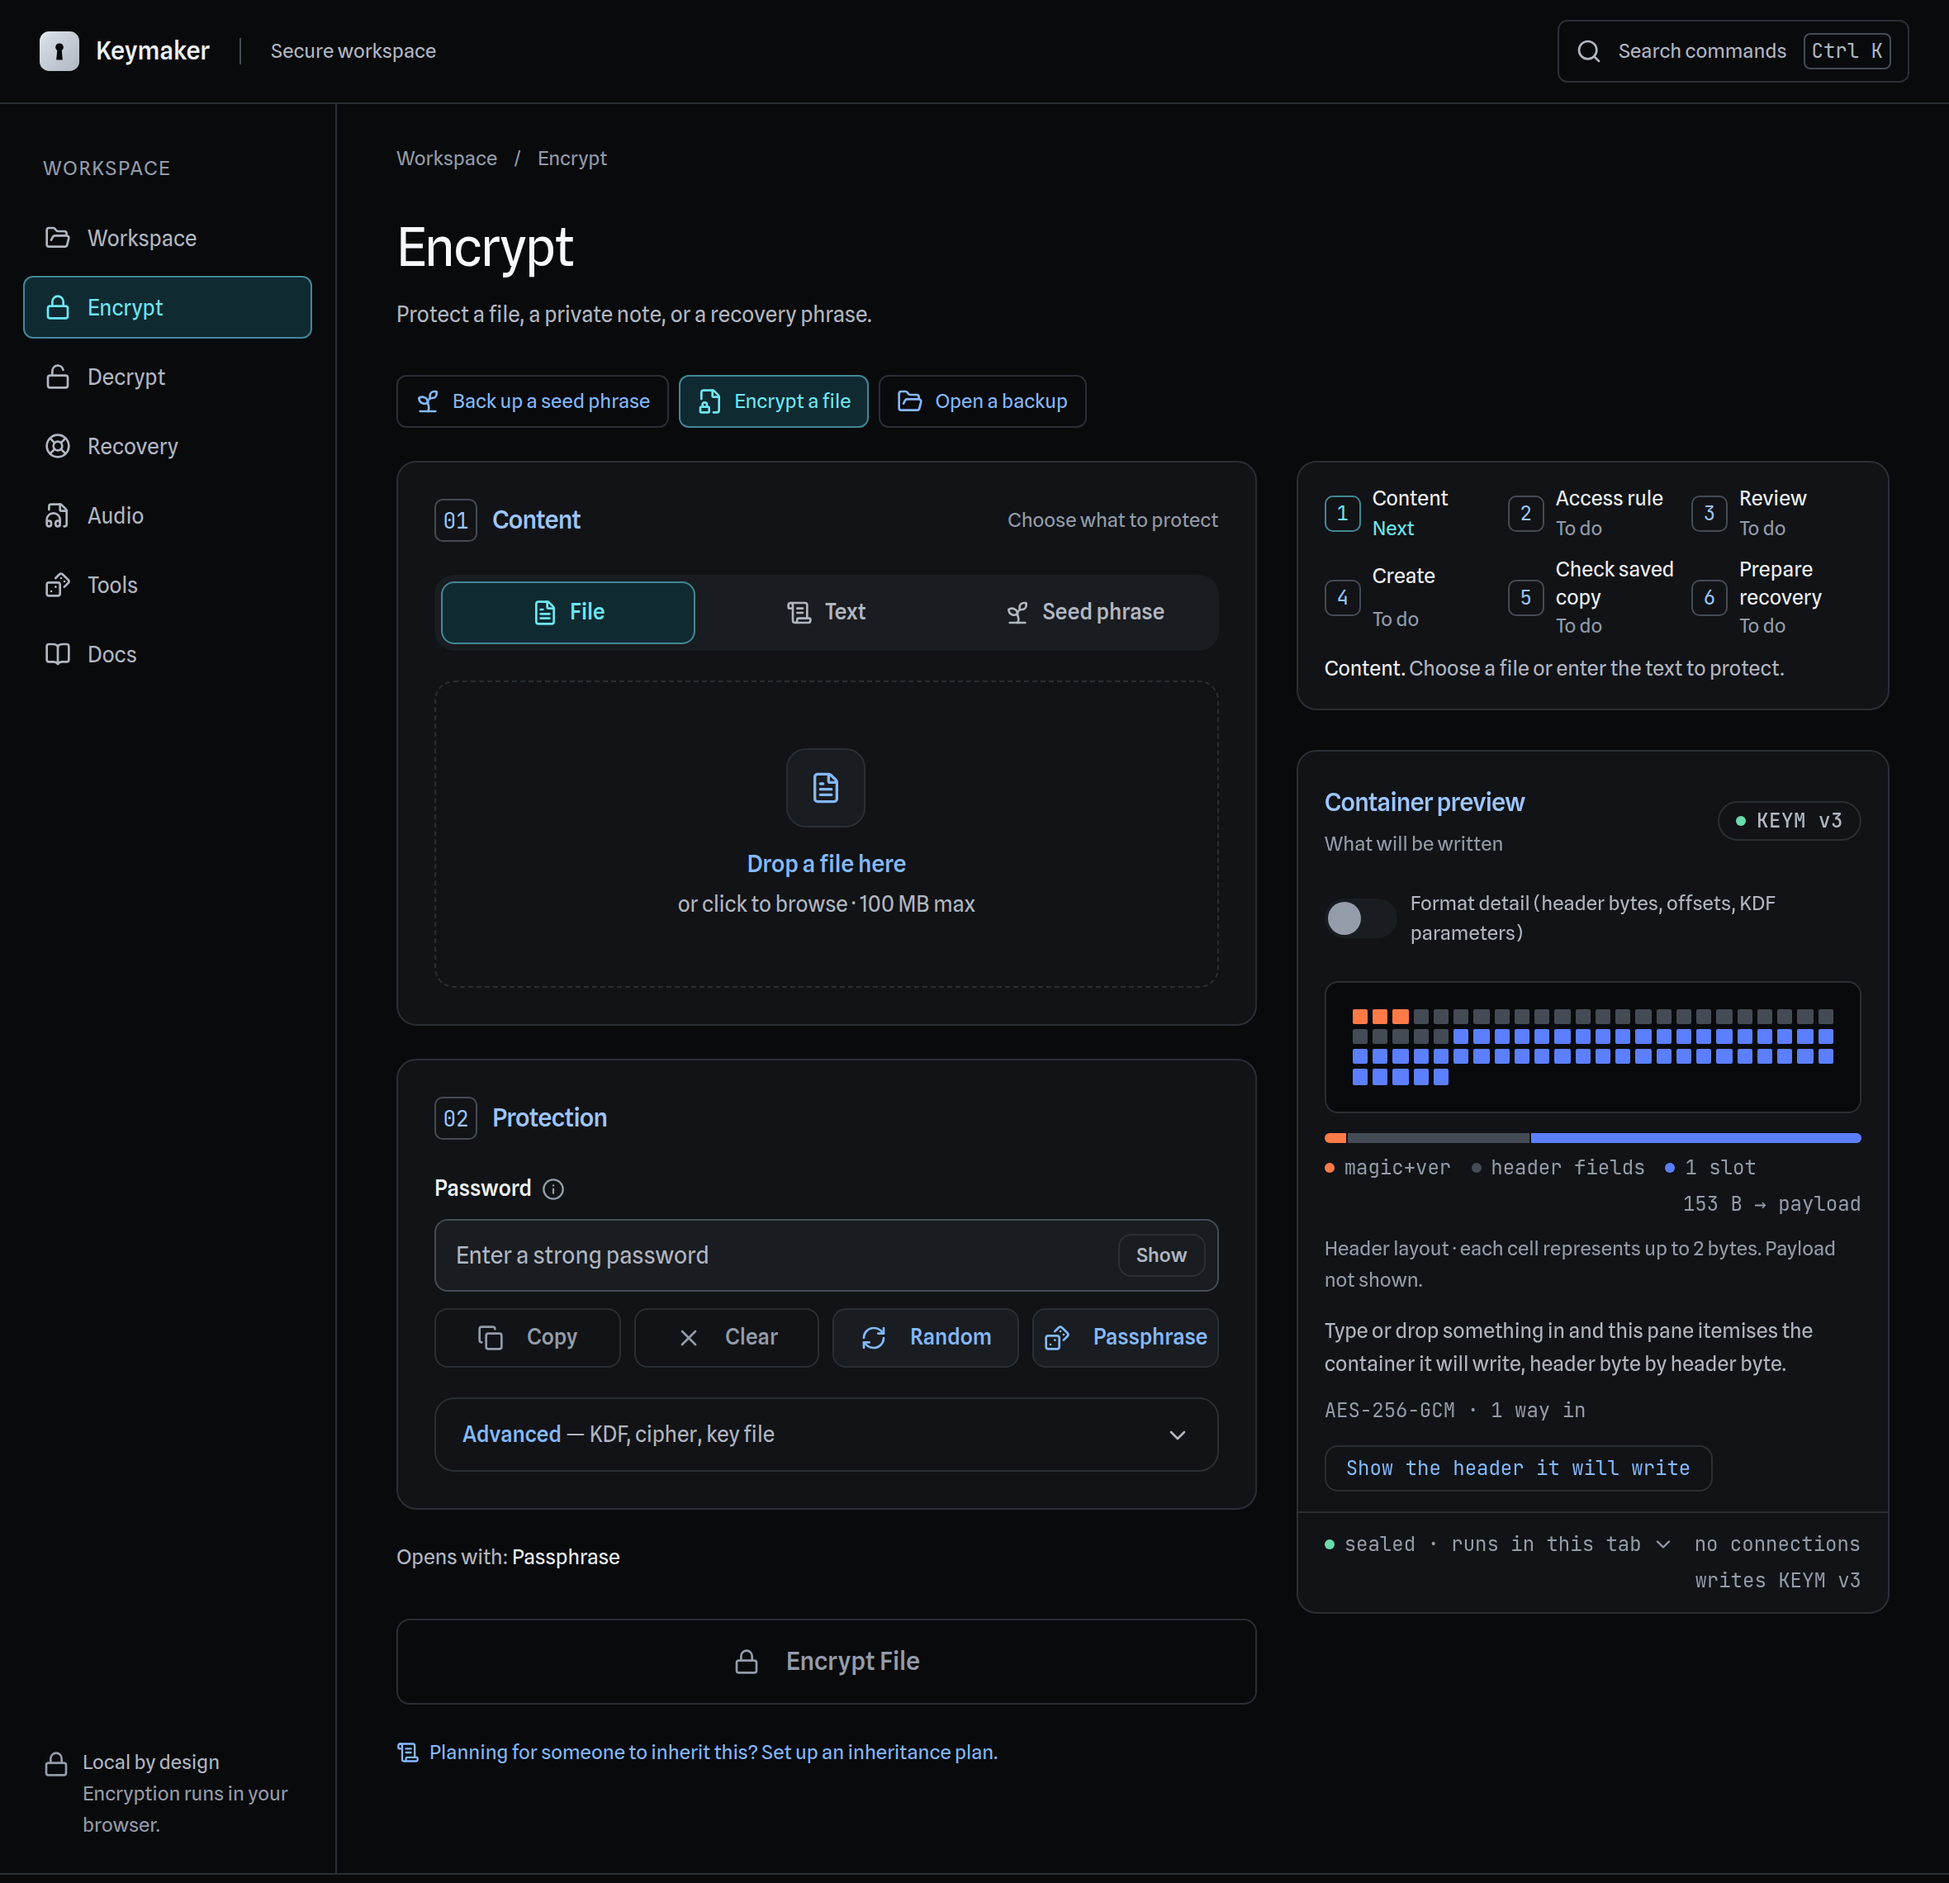
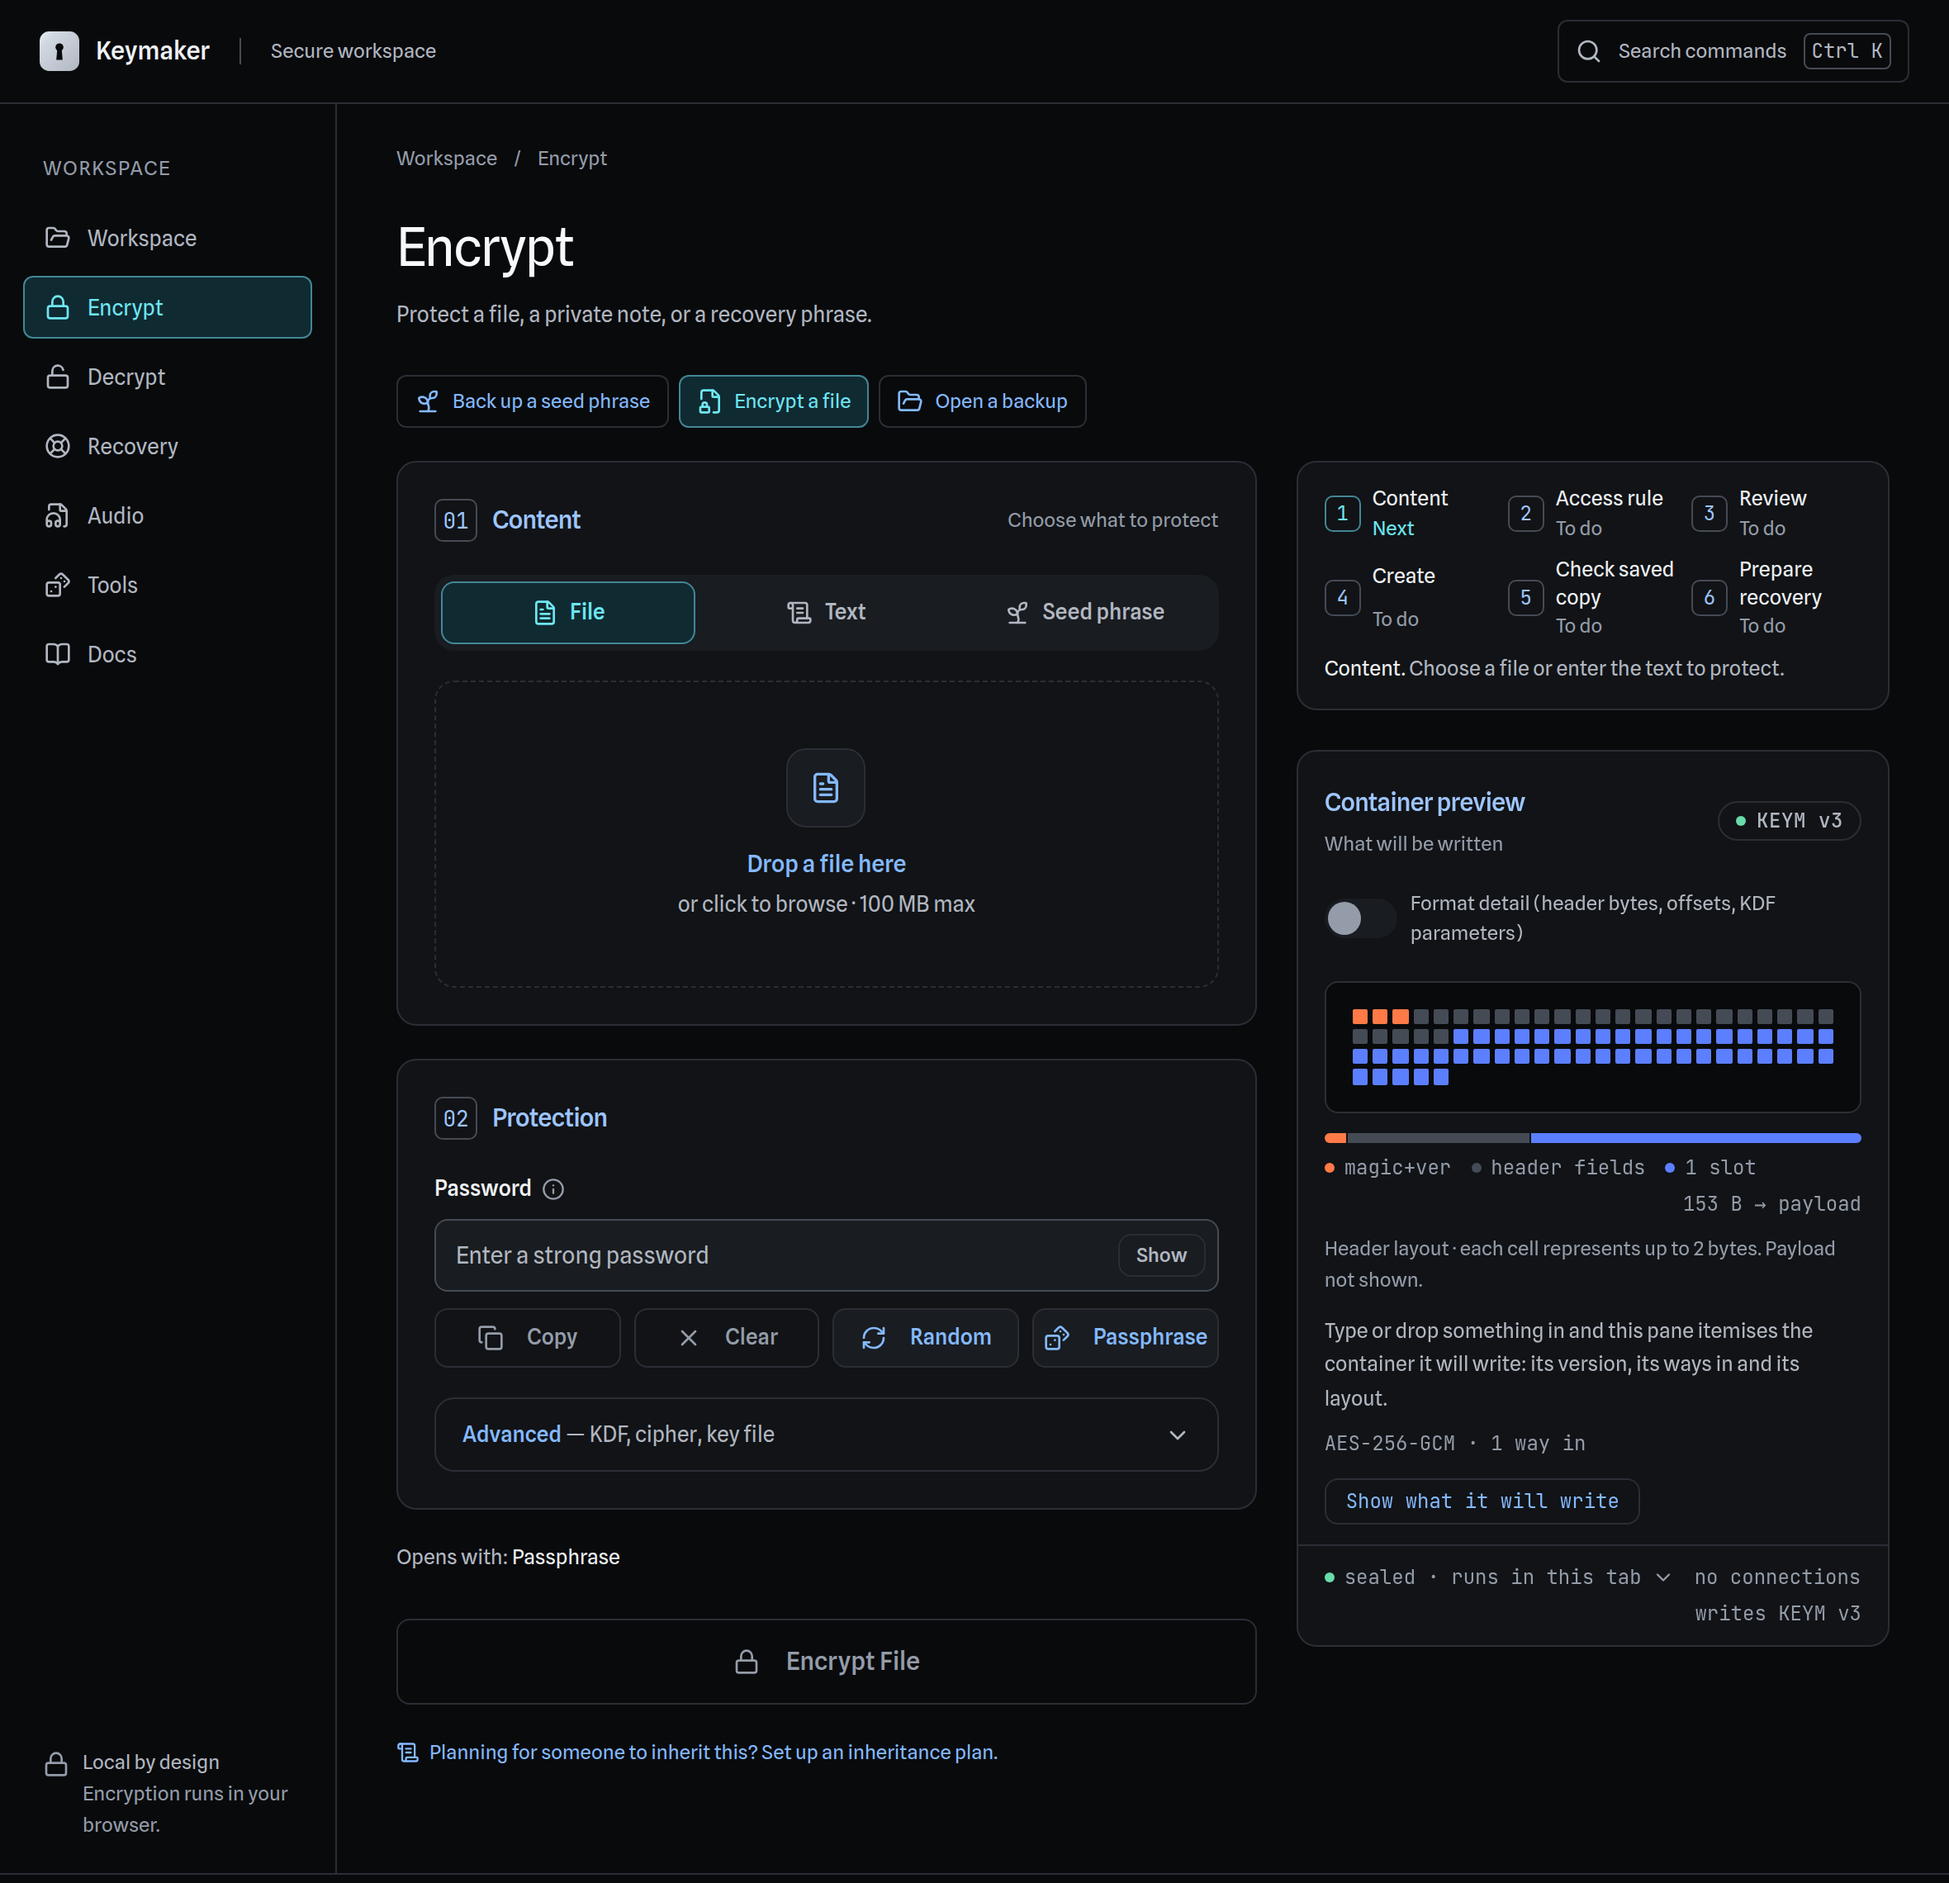
Make the container pane's first-visit copy match the detail level
Usability finding S2. With Format detail off, the default since
Section 06c, the pane still said it would itemise the container
"header byte by header byte", and its button read "Show the header it
will write", but the itemisation shows no header bytes at that level.

The copy and the button now follow the switch. Off: "its version, its
ways in and its layout" and "Show what it will write". On: the byte
wording, which is true then.

workflow-expert-view.spec.ts reads both. palette-audit.mjs matches
either button label. 01-landing.png is recaptured.

Claude-Session: https://claude.ai/code/session_01GbCLpWTtk1prQYV8z6rYHr

Changed region(s): [[0.6805, 0.7162, 0.8661, 0.8408], [0.8661, 0.8096, 0.9589, 0.8719], [0.8042, 0.7162, 0.928, 0.7474]]

diff --git a/src/components/container-inspector.tsx b/src/components/container-inspector.tsx
@@ -498,9 +498,14 @@ export function ContainerInspector({
         <>
         <ByteMap spans={byteMapSpans(KEYM2_VERSION, plan.cipherId, waysIn)} filling={sealing} />
         <div className="px-4 pb-3" data-testid="inspector-plan-summary">
-          <p className="text-[12.5px] leading-relaxed text-muted-foreground">
-            Type or drop something in and this pane itemises the container it
-            will write, header byte by header byte.
+          {/* Says what the itemisation will show at the current detail level.
+              With Format detail off it shows the version, the ways in and the
+              layout, not header bytes, and promising bytes it would not show
+              was usability finding S2. */}
+          <p className="text-[12.5px] leading-relaxed text-muted-foreground" data-testid="inspector-plan-promise">
+            {formatDetail
+              ? "Type or drop something in and this pane itemises the container it will write, header byte by header byte."
+              : "Type or drop something in and this pane itemises the container it will write: its version, its ways in and its layout."}
           </p>
           <p className="pt-2 font-mono text-[12px] text-subtle-foreground">
             {plan.cipherLabel} · {waysIn === 1 ? "1 way in" : `${waysIn} ways in`}
@@ -511,7 +516,7 @@ export function ContainerInspector({
             aria-expanded={false}
             className="km-action mt-3 rounded-md border border-border px-3 py-1 font-mono text-[12px] transition-colors hover:bg-inset focus-visible:outline-hidden focus-visible:ring-2 focus-visible:ring-ring focus-visible:ring-offset-2 focus-visible:ring-offset-background"
           >
-            Show the header it will write
+            {formatDetail ? "Show the header it will write" : "Show what it will write"}
           </button>
         </div>
         </>

diff --git a/tests/browser/workflow-expert-view.spec.ts b/tests/browser/workflow-expert-view.spec.ts
@@ -42,6 +42,20 @@ test("the inspector leaves out bytes and KDF parameters until format detail is o
   await expect(detailSwitch(page)).toHaveAttribute("aria-checked", "false");
 });
 
+test("the pane's first-visit copy promises only what the detail level shows", async ({ page }) => {
+  // Usability finding S2: with Format detail off the itemisation has no
+  // header bytes, so the copy must not promise them.
+  await page.goto("/");
+  const promise = visible(page.getByTestId("inspector-plan-promise"));
+  await expect(promise).toContainText("its version, its ways in and its layout");
+  await expect(promise).not.toContainText("header byte by header byte");
+  await expect(visible(page.getByRole("button", { name: "Show what it will write" }))).toBeVisible();
+
+  await showFormatDetail(page);
+  await expect(promise).toContainText("header byte by header byte");
+  await expect(visible(page.getByRole("button", { name: "Show the header it will write" }))).toBeVisible();
+});
+
 test("the receipt, the parsed slot rows and the Recovery tab name the KDF without its parameters", async ({ page }) => {
   await page.goto("/");
   await useTextMode(page);

diff --git a/docs/reports/USABILITY-2026-09-29.md b/docs/reports/USABILITY-2026-09-29.md
@@ -32,7 +32,7 @@ which `npm run test:screenshots` checks.
 | # | Finding | State | Recommendation |
 |---|---|---|---|
 | S1 | **The Recovery tab reported a change nobody made.** After testing the backup on the Decrypt tab, the Recovery tab said "The form on the Encrypt tab has changed since this backup was made (content)". The input type, the text box and the chosen file are shared by the two tabs, so the Decrypt side's input was read as the Encrypt form's. A File-mode test would also have said "input type". | **Fixed in this part.** Content and input type are compared only while the form is on the Encrypt tab; returning there restores both. `recovery-test-keeps.spec.ts` checks the Recovery tab after a text-mode and a file-mode test, and disabling the fix fails both checks. | None. |
-| S2 | **The container pane's first-visit copy promises what it no longer shows.** It says it "itemises the container it will write, header byte by header byte", and its button reads "Show the header it will write". With Format detail off, which is the default since part c, the itemisation shows the ways in and the layout but no header bytes. | Open. | Reword to what is shown ("…itemises the container it will write: its version, its ways in and its layout"), or turn Format detail on when the button is pressed. The first is smaller and keeps one switch in charge. |
+| S2 | **The container pane's first-visit copy promises what it no longer shows.** It says it "itemises the container it will write, header byte by header byte", and its button reads "Show the header it will write". With Format detail off, which is the default since part c, the itemisation shows the ways in and the layout but no header bytes. | **Fixed.** The copy and the button now follow the switch: off, they name the version, the ways in and the layout; on, they keep "header byte by header byte". Checked in `workflow-expert-view.spec.ts`. | Reword to what is shown ("…itemises the container it will write: its version, its ways in and its layout"), or turn Format detail on when the button is pressed. The first is smaller and keeps one switch in charge. |
 | S3 | **The step grid's rows do not line up.** "Check saved copy" and "Prepare recovery" wrap to two lines at this width, so in the second row "Create" sits higher than its neighbours and the three state words sit at two heights. | Open. | Shorter labels ("Saved copy", "Recovery"), or a grid that aligns the state words on a common row. |
 | S4 | **"Check saved copy" names only half of what completes it.** Its sentence says "Download it or print the paper vault, then check the copy", but not how to check. The two ways are loading the saved file on the Decrypt tab and verifying it, or photographing every printed symbol on the Recovery tab. The walkthrough now says so; the page does not. | Open. | Name both ways in the sentence, or link to the Recovery tab's printout check. |
 | S5 | **"credentials" is the page's word, not the owner's.** The stale-verify notice says "Changed since: credentials" for a newly typed password. | Open, minor. | "password or recovery shares". |

diff --git a/CHANGELOG.md b/CHANGELOG.md
@@ -19,6 +19,10 @@
   only when a rehearsal from the shares has opened it.
 
 ### Fixed
+- **The container pane promised header bytes it did not show.** With Format
+  detail off, its first-visit copy still said it would itemise the container
+  "header byte by header byte". It now names what it shows at the current
+  detail level, and so does its button.
 - **The Recovery tab reported a change nobody made.** After testing a backup on
   the Decrypt tab, it said the Encrypt form's content had changed, because the
   two tabs share their input. Content and input type are now compared only on
